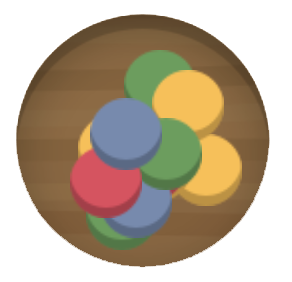
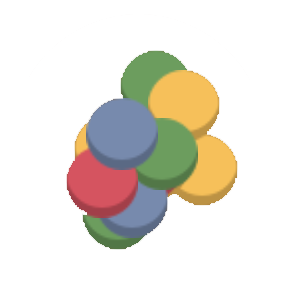
ahhhhhhhhh

diff --git a/ICS3U-Trang/src/tran/culminating/Mancala.java b/ICS3U-Trang/src/tran/culminating/Mancala.java
@@ -111,14 +111,27 @@ public class Mancala {
 	 * @param holes - the array that stores the amount of beads in every hole
 	 */
 	public static void drawScreen(int [] holes) {
-		Color woodBrown = new Color(222, 184, 135);
-		Color tan = new Color(212, 174, 125);
+		
+		
+		Toolkit toolkit = Toolkit.getDefaultToolkit();
+		Image []pics=new Image [13];
 
-		c.setColor(woodBrown);
-		c.fillRect(20,200,1190,400);
-		c.setColour(tan);
-		c.fillOval(28,235, 150, 325);
-
+		pics[0]=toolkit.getImage("src/tran/culminating/Mancala-1.png");
+		pics[1]=toolkit.getImage("src/tran/culminating/Mancala-2.png");
+		pics[2]=toolkit.getImage("src/tran/culminating/Mancala-3.png");
+		pics[3]=toolkit.getImage("src/tran/culminating/Mancala-4.png");
+		pics[4]=toolkit.getImage("src/tran/culminating/Mancala-5.png");
+		pics[5]=toolkit.getImage("src/tran/culminating/Mancala-6.png");
+		pics[6]=toolkit.getImage("src/tran/culminating/Mancala-7.png");
+		pics[7]=toolkit.getImage("src/tran/culminating/Mancala-8.png");
+		pics[8]=toolkit.getImage("src/tran/culminating/Mancala-9.png");
+		pics[9]=toolkit.getImage("src/tran/culminating/Mancala-10.png");
+		pics[10]=toolkit.getImage("src/tran/culminating/Mancala-11.png");
+		pics[11]=toolkit.getImage("src/tran/culminating/Mancala-12.png");
+		pics[12]=toolkit.getImage("src/tran/culminating/MancalaBoard.png");
+		
+		c.drawImage(pics[12], 25, 135, 1200, 500, null);
+		
 	}
 
 	/**
